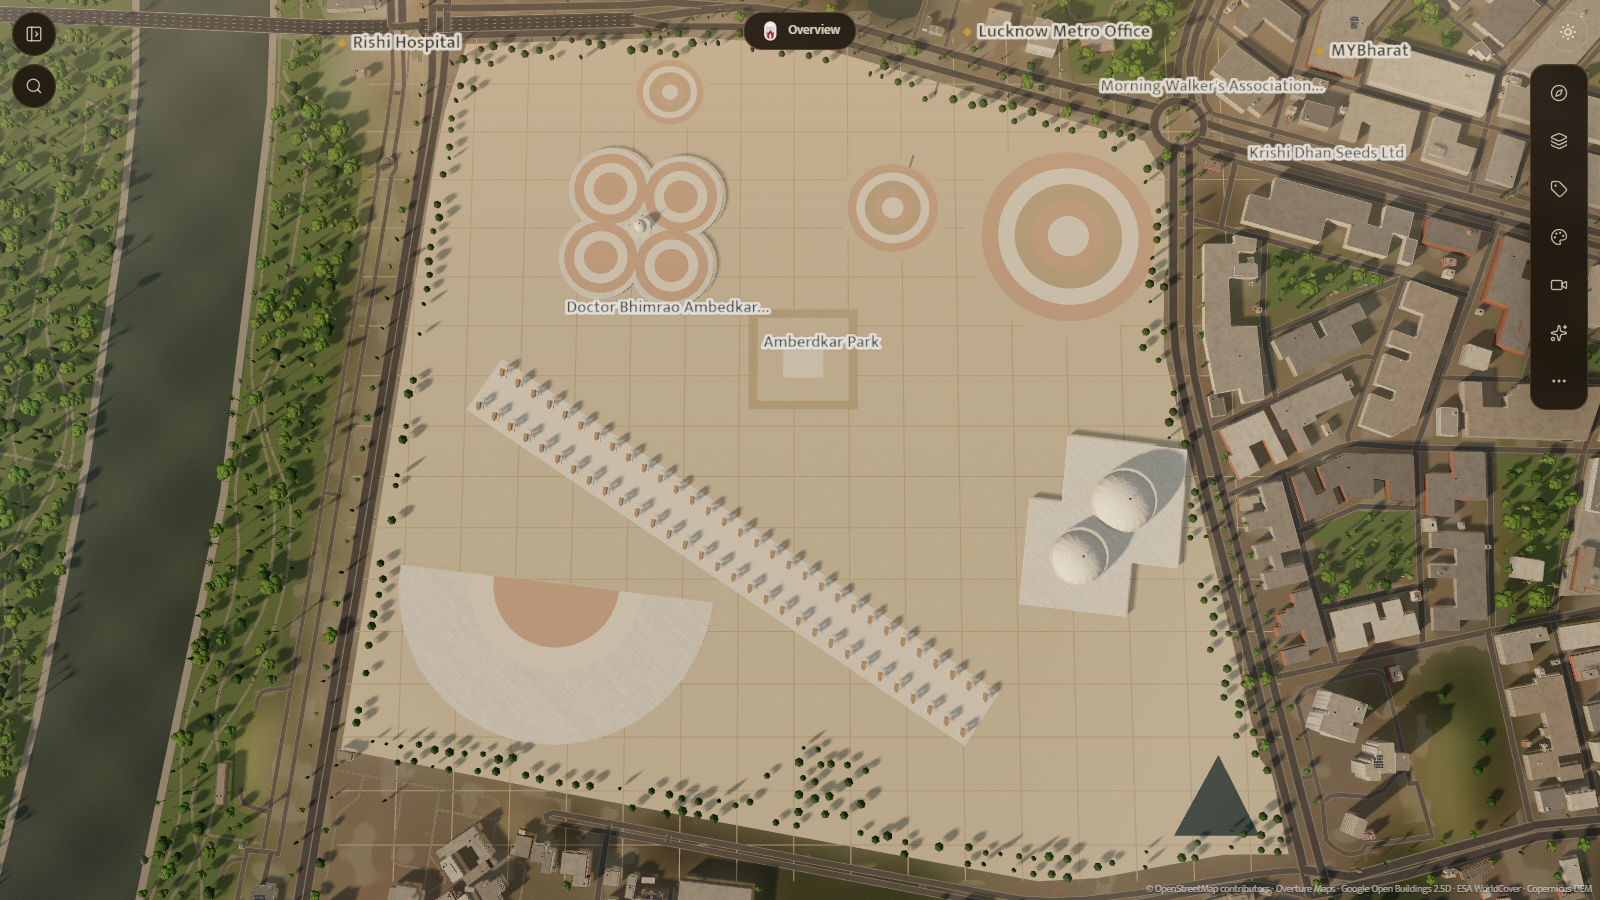
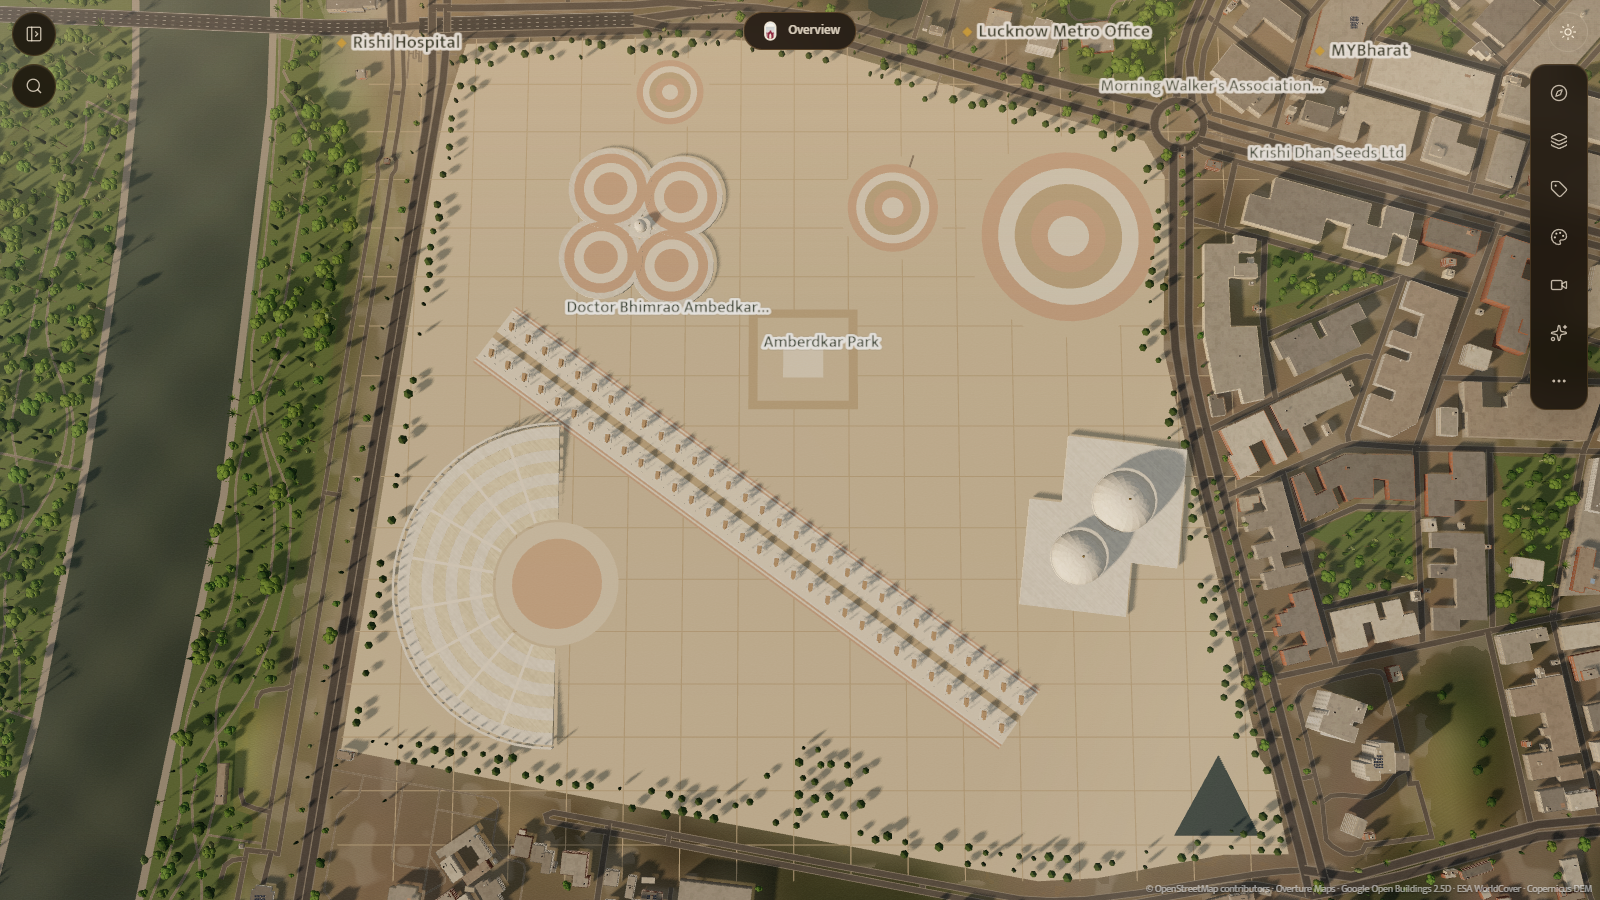
feat(3d): Ambedkar tiered amphitheatre and detailed elephant avenue

Changed region(s): [[0.25, 0.3422, 0.6562, 0.84], [0.2812, 0.7778, 0.3125, 0.8089], [0.25, 0.7467, 0.2812, 0.7778]]

diff --git a/src/city/landmarks.ts b/src/city/landmarks.ts
@@ -500,35 +500,78 @@ function ambedkarMemorial(k: Kit, g: Grounds, s: LandmarkSite): void {
     k.cylinder(u, v, 1.1, 0.3, 9 + r * 0.78, 9 + r * 0.78 + 3.5, 8, S.GILT);
   }
 
-  // 6. Semicircular tiered amphitheatre (SW), opening toward the centre.
+  // 6. Semicircular tiered amphitheatre (SW). Built in world axes: arc to the west, flat edge
+  //    facing east. Eight stepped annular tiers rising outward, a low stage, a colonnade on the
+  //    outer arc and radial aisles. Proportions are read from the reference views, not surveyed.
   {
-    const [cu, cv] = P(0.225, 0.665);
+    const cxw = minX + 0.225 * W, czw = minZ + 0.665 * H;
     const R = 0.17 * W;
-    for (let i = 0; i < 5; i++) {
-      const r1 = R * (1 - i * 0.15);
-      const pts: number[][] = [];
-      for (let t = 0; t <= 24; t++) { const a = Math.PI * 0.5 + (t / 24) * Math.PI; const w = k.w([cu + Math.cos(a) * r1 * -1, 0, cv + Math.sin(a) * r1]); pts.push([w[0], w[2]]); }
-      // Left-facing semicircle: x from centre outward to -u side.
-      g.color(i % 2 ? WHITE : PINK).polyWorld(pts, 0.2 + i * 0.5);
-      if (i === 0) k.extrudeWorldRing(pts, 0, 1.6, S.LIME, S.LIME);
+    const arcPt = (r: number, a: number): number[] => [cxw + Math.cos(a) * r, czw + Math.sin(a) * r];
+    const sector = (rOut: number, rIn: number): number[][] => {
+      const o: number[][] = [], i: number[][] = [];
+      for (let t = 0; t <= 28; t++) { const a = Math.PI * 0.5 + (t / 28) * Math.PI; o.push(arcPt(rOut, a)); i.push(arcPt(rIn, a)); }
+      return o.concat(i.reverse());
+    };
+    const TIERS = 8, rStage = R * 0.30;
+    for (let i = 0; i < TIERS; i++) {
+      const rOut = R - (i * (R - rStage * 1.35)) / TIERS, rIn = R - ((i + 1) * (R - rStage * 1.35)) / TIERS;
+      const h = 0.7 + (TIERS - i) * 0.55;                       // outer tiers are higher
+      k.extrudeWorldRing(sector(rOut, rIn), 0, h, i % 2 ? S.STONE : S.LIME, i % 2 ? S.STONE : S.LIME);
     }
+    // Stage and the wall around it.
+    const [su, sv] = k.local(cxw, czw);
+    g.color(0xd9cdb8).disc(su, sv, rStage * 1.3, 0.3, 36);
+    g.color(0xcdae94).disc(su, sv, rStage * 0.95, 0.35, 36);
+    // Radial aisles between seating blocks.
+    for (let n = 1; n < 9; n++) {
+      const a = Math.PI * 0.5 + (n / 9) * Math.PI;
+      const p0 = arcPt(rStage * 1.35, a), p1 = arcPt(R, a), nx = -Math.sin(a) * 1.2, nz = Math.cos(a) * 1.2;
+      g.color(0xefe6d6).polyWorld([[p0[0] + nx, p0[1] + nz], [p1[0] + nx, p1[1] + nz], [p1[0] - nx, p1[1] - nz], [p0[0] - nx, p0[1] - nz]], 5.05);
+    }
+    // Colonnade along the outer arc with a continuous entablature.
+    const cols = 46;
+    for (let t = 0; t <= cols; t++) {
+      const a = Math.PI * 0.5 + (t / cols) * Math.PI, p = arcPt(R + 2, a);
+      const [u, v] = k.local(p[0], p[1]);
+      if (inside(u, v)) k.cylinder(u, v, 0.9, 0.8, 0, 9.5, 8, S.LIME);
+    }
+    k.extrudeWorldRing(sector(R + 3, R + 1), 9.5, 10.6, S.LIME, S.LIME);
   }
 
-  // 7. Elephant avenue: two diagonal rows of 31 elephants (62).
+  // 7. Elephant avenue: 62 elephants (2 x 31, documented) on pedestals along a long diagonal
+  //    band with low parapets, lamp columns and shallow steps; the band runs the length of the
+  //    plaza as in the references. Lamp columns are extra to the 62.
   {
-    const [u0, v0] = P(0.14, 0.43), [u1, v1] = P(0.68, 0.82);
+    const [u0, v0] = P(0.15, 0.37), [u1, v1] = P(0.72, 0.82);
     const dx = u1 - u0, dv = v1 - v0, len = Math.hypot(dx, dv), ux = dx / len, uv = dv / len, nx = -uv, nv = ux;
-    const hw = 26;
-    const band = [[u0 + nx * hw, v0 + nv * hw], [u1 + nx * hw, v1 + nv * hw], [u1 - nx * hw, v1 - nv * hw], [u0 - nx * hw, v0 - nv * hw]]
-      .map(([u, v]) => { const q = k.w([u, 0, v]); return [q[0], q[2]]; });
-    g.color(WHITE).polyWorld(band, 0.09);
+    const hw = 24;
+    const wp = (u: number, v: number): number[] => { const q = k.w([u, 0, v]); return [q[0], q[2]]; };
+    const strip = (o0: number, o1: number, a: number, b: number): number[][] =>
+      [wp(u0 + dx * a + nx * o0, v0 + dv * a + nv * o0), wp(u0 + dx * b + nx * o0, v0 + dv * b + nv * o0),
+       wp(u0 + dx * b + nx * o1, v0 + dv * b + nv * o1), wp(u0 + dx * a + nx * o1, v0 + dv * a + nv * o1)];
+    g.color(WHITE).polyWorld(strip(-hw, hw, 0, 1), 0.09);
+    g.color(INLAY).polyWorld(strip(-3, 3, 0, 1), 0.11);                             // centre water-lane
+    for (const sg of [-1, 1]) {
+      k.extrudeWorldRing(strip(sg * hw, sg * (hw + 1.4), 0, 1), 0, 1.0, S.LIME, S.LIME);  // parapet
+      for (let st = 0; st < 3; st++) g.color(st % 2 ? WHITE : PINK).polyWorld(strip(sg * (hw + 1.4 + st * 1.5), sg * (hw + 2.9 + st * 1.5), 0, 1), 0.1);
+    }
     for (let i = 0; i < 31; i++) {
       const t = (i + 0.5) / 31;
       for (const sg of [-1, 1]) {
-        const u = u0 + dx * t + nx * 17 * sg, v = v0 + dv * t + nv * 17 * sg;
+        const u = u0 + dx * t + nx * 14 * sg, v = v0 + dv * t + nv * 14 * sg;
         if (!inside(u, v)) continue;
         k.box(u - 4.2, u + 4.2, 0, 2.2, v - 3.4, v + 3.4, S.LIME);
         g.elephant(u, v, 2.2, 1.7, ux >= 0 ? 1 : -1);
+      }
+    }
+    // Lamp columns between the elephants and on the outer edges.
+    const nL = Math.floor(len / 11);
+    for (let i = 0; i < nL; i++) {
+      const t = (i + 0.5) / nL;
+      for (const off of [-20, -8, 8, 20]) {
+        const u = u0 + dx * t + nx * off, v = v0 + dv * t + nv * off;
+        if (!inside(u, v)) continue;
+        k.cylinder(u, v, 0.4, 0.28, 0, 6.5, 6, S.LIME);
       }
     }
   }

diff --git a/docs/3d-revamp/ROUND_3_REPORT.md b/docs/3d-revamp/ROUND_3_REPORT.md
@@ -124,3 +124,8 @@ Changes are in `buildingMaterial.ts` and `roadMaterial.ts`. Checked in `night_ha
 - Rebuilt after the user's oblique photo and a top-down map view. The top-down view is Google imagery, so it was used only for composition. Nothing was traced: the outline is the Overture precinct polygon and each feature sits at an eyeballed fraction of that polygon's bounding box.
 - **Now:** all-paved precinct, four-lobed platform with a small stupa (NW), inlaid circular plazas (large one NE), a square court, two white domed halls (SE), a semicircular tiered amphitheatre (SW), a diagonal avenue of 62 elephants on pedestals, a small triangular pool (SE corner) and narrow edge tree strips plus one grove. No lawn margin. Screenshots `ambedkar_top.png`, `ambedkar_oblique.png`.
 - **Wrong or missing against the references:** the elephant avenue is far shorter and sparser than the real one; the amphitheatre is a flat disc segment (no seating tiers or columns); the cloverleaf lobes read as concentric rings rather than white sculpted forms; the domed halls are simple blocks, and the real site's long rectangular buildings, pillar rows and fine patterned paving are absent. Positions are approximate; side-by-side comparison at matching angles was not done. Night lighting for the new layout was not checked.
+
+## Update: Ambedkar avenue and amphitheatre detail
+- **Amphitheatre:** eight stepped annular tiers rising toward the outer arc (alternating plaster tones), radial aisles, a low stage disc, and a 47-column colonnade with an entablature on the outer arc. Built in world axes so the arc faces west and the flat edge faces east, as in the references.
+- **Avenue:** the 62 elephants (2 x 31, the documented count) now stand on larger pedestals along a long diagonal band with low parapets, shallow steps on both sides, a centre lane and four rows of lamp columns (extra to the 62).
+- **Still not right:** the elephants are the same simple blocky statue; the real avenue is longer and denser than 62 statues at this spacing suggest, so the extra "marks" in the references are not reproduced beyond the lamp columns; the amphitheatre's tiers are smooth steps without seat rows or columns inside; proportions are by eye. Screenshots `ambedkar_top.png`, `amb_avenue.png`, `amb_amphi.png`. Night lighting not reviewed.
